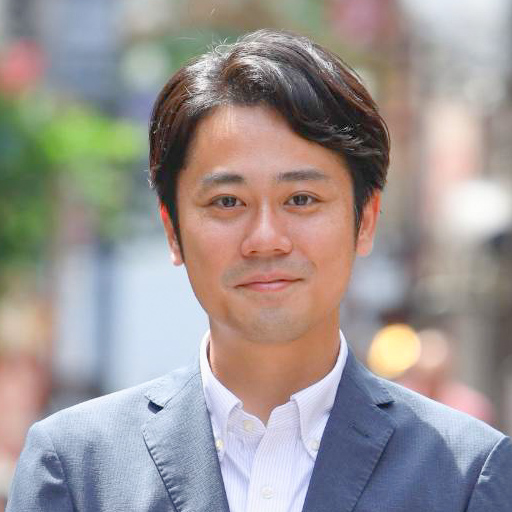
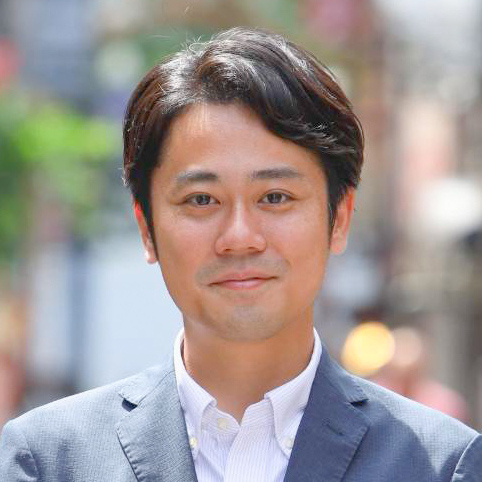
SNS項目追加
Facebook, Instagram, TikTok のカラム設定の追加

diff --git a/gatsby-node.js b/gatsby-node.js
@@ -203,6 +203,9 @@ exports.createPages = async ({ actions }) => {
         sns: (row[columns.sns] || "").trim(),
         line: (row[columns.line] || "").trim(),
         youtube: (row[columns.youtube] || "").trim(),
+        facebook: (row[columns.facebook] || "").trim(),
+        instagram: (row[columns.instagram] || "").trim(),
+        tiktok: (row[columns.tiktok] || "").trim(),
         answers,
       };
     });

diff --git a/site-config.js b/site-config.js
@@ -43,6 +43,9 @@ module.exports = {
     sns: "公式SNS",
     line: "LINE",
     youtube: "Youtube",
+    facebook: "Facebook",
+    instagram: "Instagram",
+    tiktok: "tiktok",
   },
 
   // ===== アンケート質問一覧 =====

diff --git a/src/styles/global.css b/src/styles/global.css
@@ -388,7 +388,7 @@ img {
   color: var(--color-text);
   font-weight: 600;
   position: relative;
-  margin-bottom: 12px;
+  margin-bottom: 24px;
   width: 100%;
   box-shadow: var(--shadow-sm);
   word-break: break-all;